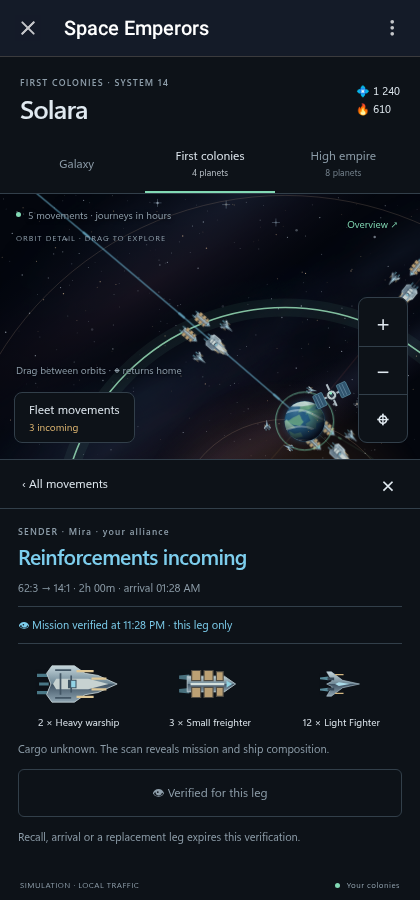
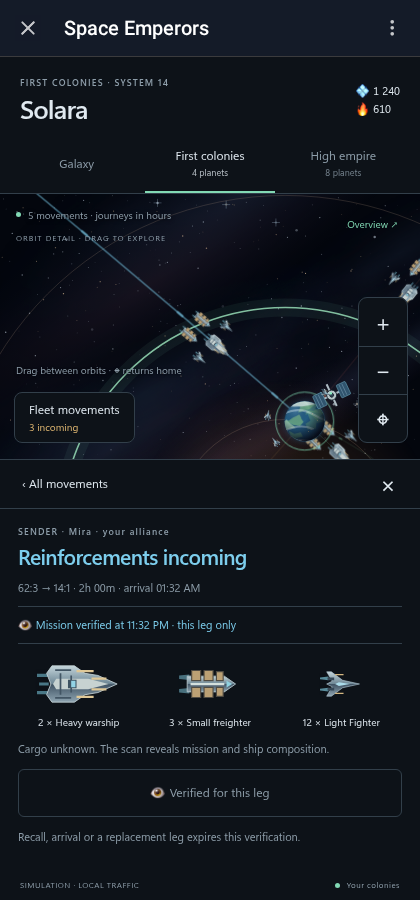
Use Telegram Web A emoji artwork throughout the Mini App

diff --git a/examples/galaxy/app/app.js b/examples/galaxy/app/app.js
@@ -108,6 +108,40 @@ const shipTypes = {
 	fighter: { name: "Light Fighter", symbol: "ship-sprite", width: 20, height: 14 },
 };
 
+function renderEmoji(root) {
+	// Match this study's resource, biome and Observatory glyphs to Web A's own Apple assets.
+	// Keep UI arrows as text icons; never let the operating system choose the emoji artwork.
+	const pattern = /[💠🔥🏝🏔🌋🏜⛰👁]\uFE0F?/gu;
+	const walker = document.createTreeWalker(root, NodeFilter.SHOW_TEXT);
+	const replacements = [];
+	while (walker.nextNode()) {
+		const node = walker.currentNode;
+		if (node.parentElement.namespaceURI === NS) continue;
+		const matches = [...node.textContent.matchAll(pattern)];
+		if (matches.length) replacements.push({ node, matches });
+	}
+	for (const { node, matches } of replacements) {
+		const fragment = document.createDocumentFragment();
+		let offset = 0;
+		for (const match of matches) {
+			fragment.append(node.textContent.slice(offset, match.index));
+			const image = document.createElement("img");
+			image.className = "telegram-emoji";
+			image.alt = match[0];
+			image.draggable = false;
+			// Same normalization as Web A's nativeToUnifiedExtended: omit variation selector 16.
+			const code = [...match[0].replaceAll("\uFE0F", "")]
+				.map((character) => character.codePointAt(0).toString(16).padStart(4, "0"))
+				.join("-");
+			image.src = `/img-apple-64/${code}.png`;
+			fragment.append(image);
+			offset = match.index + match[0].length;
+		}
+		fragment.append(node.textContent.slice(offset));
+		node.replaceWith(fragment);
+	}
+}
+
 function element(tag, attrs, parent, text) {
 	const node = document.createElementNS(NS, tag);
 	for (const [key, value] of Object.entries(attrs)) node.setAttribute(key, String(value));
@@ -629,6 +663,7 @@ function selectPlanet(planet, approach = false) {
 		updateCamera();
 		$("#planet-action").textContent = "System overview ↗";
 	}
+	renderEmoji($(".selection"));
 }
 function fit() {
 	const outer = view === "galaxy" ? 290 : planets.at(-1).radius;
@@ -708,6 +743,7 @@ function showView(next) {
 	if (view === "galaxy") galaxy();
 	else systemScene();
 	resize();
+	renderEmoji(document.body);
 }
 function resize() {
 	const box = svg.getBoundingClientRect();
@@ -908,6 +944,7 @@ function showMovements() {
 			list.append(button);
 		}
 	}
+	renderEmoji(list);
 }
 function openMovement(fleet) {
 	const previous = activeFleet;
@@ -949,6 +986,7 @@ function openMovement(fleet) {
 				: `<p class="fleet-note">${state.id === "incoming-ally" && !state.ended ? "An alliance member is approaching. Alliance membership does not verify their mission." : state.ended ? "An old report cannot verify a different movement leg." : "Only sender, origin, target and arrival are visible."}</p>`
 		}
 		${!state.own ? `<button type="button" class="scan-button" id="scan-fleet" ${state.ended || report || !state.inScanRange ? "disabled" : ""}>${state.ended ? "Movement ended" : report ? "👁 Verified for this leg" : state.inScanRange ? "👁 Scan fleet with Observatory" : "Outside Observatory range"}</button><p class="fleet-note">${report ? "Recall, arrival or a replacement leg expires this verification." : "Scan availability is sample state; range geometry is still undecided."}</p><details class="demo-controls"><summary>Preview movement changes</summary><p>Prototype controls for report expiry.</p><button type="button" data-expire="recalled">Recall</button><button type="button" data-expire="arrived">Arrival</button><button type="button" data-expire="replaced">Replacement leg</button></details>` : ""}`;
+	renderEmoji(detail);
 	if (!state.own) {
 		$("#scan-fleet").addEventListener("click", () => scanFleet(fleet));
 		for (const button of detail.querySelectorAll("[data-expire]"))

diff --git a/test/mini-app.smoke.ts b/test/mini-app.smoke.ts
@@ -42,6 +42,15 @@ try {
 			);
 			const frame = page.frames().find((frame) => frame.url().includes("/app/index.html"));
 			assert.ok(frame);
+			// The Mini App must request the exact same artwork as the surrounding Telegram message.
+			for (const glyph of ["💠", "🔥"]) {
+				const chatEmoji = page.locator(`.Message img.emoji[alt='${glyph}']`).first();
+				const appEmoji = app.locator(`.resources img[alt='${glyph}']`);
+				assert.equal(
+					await appEmoji.evaluate((node: HTMLImageElement) => node.src),
+					await chatEmoji.evaluate((node: HTMLImageElement) => node.src),
+				);
+			}
 			assert.equal(new URLSearchParams(new URL(frame.url()).hash.slice(1)).get("tgWebAppData"), "");
 			assert.ok(new URLSearchParams(new URL(frame.url()).hash.slice(1)).get("tgWebAppThemeParams"));
 			const map = app.locator("#galaxy");
@@ -157,6 +166,12 @@ try {
 				/Mission verified at.*this leg only/,
 			);
 			assert.equal(await app.locator(".composition > div").count(), 3);
+			await app.locator("#verification img[alt='👁']").waitFor();
+			await frame.waitForFunction(() =>
+				[...document.querySelectorAll<HTMLImageElement>("img.telegram-emoji")].every(
+					(image) => image.complete && image.naturalWidth === 64,
+				),
+			);
 			await page.screenshot({ path: `wireframes/interaction/${touch ? "touch" : "desktop"}-espionage.png` });
 			await app.locator(".demo-controls summary").click();
 			await app.getByRole("button", { name: "Recall", exact: true }).click();
@@ -174,6 +189,12 @@ try {
 			assert.equal(await app.locator(".planet.own").count(), 8);
 			assert.equal(await app.locator(".station").count(), 8);
 			assert.equal(await app.locator("[data-fleet]").count(), 27);
+			assert.equal(await app.locator("#orbit-picker img.telegram-emoji").count(), 8);
+			await frame.waitForFunction(() =>
+				[...document.querySelectorAll<HTMLImageElement>("img.telegram-emoji")].every(
+					(image) => image.complete && image.naturalWidth === 64,
+				),
+			);
 			await page.screenshot({ path: `wireframes/interaction/${touch ? "touch" : "desktop"}-developed.png` });
 			for (let orbit = 1; orbit <= 8; orbit++) {
 				const button = app.locator(`[data-orbit-select='28:${orbit}']`);

diff --git a/examples/galaxy/app/style.css b/examples/galaxy/app/style.css
@@ -31,6 +31,15 @@ button {
 	background: none;
 	min-height: 48px;
 }
+.telegram-emoji {
+	display: inline-block;
+	width: 1.25em;
+	height: 1.25em;
+	vertical-align: -0.25em;
+	object-fit: contain;
+	flex-shrink: 0;
+	margin-inline-end: 1px;
+}
 button:hover {
 	background: oklch(85% 0.02 245 / 0.07);
 }
